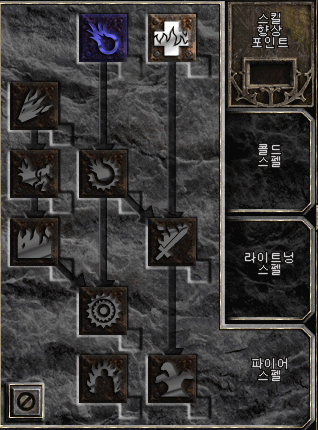
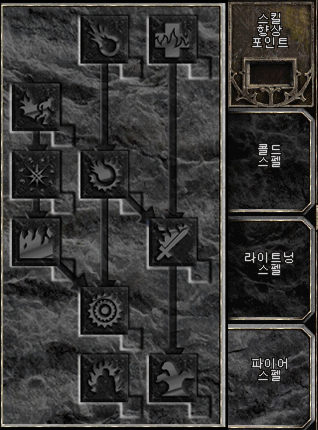
(작업중) 체인 라이트닝

diff --git a/Engin_Source/CPlayerScript.cpp b/Engin_Source/CPlayerScript.cpp
@@ -9,6 +9,7 @@
 #include "CMeteor.h"
 #include "CFireBolt.h"
 #include "CFrozenBolt.h"
+#include "CLightBolt.h"
 
 // Component
 #include "CSpriteRenderer.h"
@@ -302,6 +303,33 @@ void PlayerScript::FixedUpdate()
 
 			frozenbolt->Angle(mousePos);
 			frozenbolt->SetOwner(player);
+
+
+			SetPlayerDirection();
+			ResetAStar();
+			return;
+		}
+	}
+	else if (Input::GetInstance()->GetKeyDown(eKeyCode::E))
+	{
+		if (player->GetState() == Player::PlayerState::Idle
+			|| player->GetState() == Player::PlayerState::Move)
+		{
+			player->SetState(Player::PlayerState::Skil);
+
+			LightBolt* lightbolt = Object::Instantiate<LightBolt>(eLayerType::PlayerSKil, true);
+			Transform* lightboltTr = lightbolt->GetComponent<Transform>();
+			lightboltTr->SetPosition(pos);
+
+			Vector2 mousePos = Input::GetInstance()->GetMouseWorldPos(true);
+			Vector2 direction = mousePos - Vector2(pos.x, pos.y);
+
+			lightbolt->SetOwner(player);
+
+			// test
+			Layer& layer = SceneManager::GetInstance()->GetActiveScene()->GetLayer(eLayerType::Monster);
+			GameObject* obj = *(layer.GetGameObjects().begin());
+			lightbolt->LightingOn(obj);
 
 
 			SetPlayerDirection();

diff --git a/Engin_Source/CRenderer.cpp b/Engin_Source/CRenderer.cpp
@@ -534,6 +534,9 @@ namespace Renderer
 
 		constantBuffers[(UINT)eCBType::ObjectData] = new ConstantBuffer(eCBType::ObjectData);
 		constantBuffers[(UINT)eCBType::ObjectData]->Create(sizeof(ObjectDataCB));
+
+		constantBuffers[(UINT)eCBType::LightingData] = new ConstantBuffer(eCBType::LightingData);
+		constantBuffers[(UINT)eCBType::LightingData]->Create(sizeof(LightingBoltCB));
 #pragma endregion
 #pragma region STRUCTED BUFER
 		// Structed buffer
@@ -1134,7 +1137,7 @@ namespace Renderer
 			std::shared_ptr<Material> LightnBolttMaterial = std::make_shared<Material>();
 			LightnBolttMaterial->SetRenderingMode(eRenderingMode::Transparent);
 			LightnBolttMaterial->SetShader(LightnBolt);
-			ResourceManager::GetInstance()->Insert<Material>(L"LightnBoltMaterial", LightnBolttMaterial);
+			ResourceManager::GetInstance()->Insert<Material>(L"LightBoltMaterial", LightnBolttMaterial);
 		}
 #pragma endregion
 	}

diff --git a/Engin_Source/CLightBolt.h b/Engin_Source/CLightBolt.h
@@ -4,7 +4,33 @@
 class LightBolt : public BoltBase
 {
 public:
+	LightBolt();
+	~LightBolt();
 
+	virtual void Initalize() override;
+	virtual void Update() override;
+	virtual void FixedUpdate() override;
+	virtual void Render() override;
+
+	virtual void InitAnimation() override;
+
+	void SetCurObject(GameObject* object) { mCurObject = object; }
+	GameObject* GetCurObject() { return mCurObject; }
+
+	void SearchArriveTarget();
+	void LightingOn(GameObject* object);
+	void LinghtingRun();
+	void LightningEnd();
 private:
+	std::set<GameObject*> mAriiveList;
+	GameObject* mCurObject;
 
+	float mDriectionTime;
+	float mRadius;
+
+	int mBounceCount;
+	int mBounceMaxCount;
+
+	bool mDirection;
+	float mYScale;
 };

diff --git a/Engin_Source/CPlayerSelectButton.cpp b/Engin_Source/CPlayerSelectButton.cpp
@@ -45,8 +45,7 @@ void PlayerSelectButton::Initalize()
 	mCharterAnimation->Initalize();
 
 	Transform* tr = mCharterAnimation->GetComponent<Transform>();
-	tr->SetScale(Vector3(0.6f, 1.2f, 1.0f));
-	tr->SetSize(Vector3(250.f, 150.f, 1.0f));
+	tr->SetSize(Vector3(300.f, 200.f, 1.0f));
 	//tr->SetRotation(Vector3(30.f, 0.f, 0.f));
 	tr->SetParent(ButtonTr);
 	tr->SetPosition(Vector3(-0.8f * 100, -0.0f, 0.0f));

diff --git a/Engin_Source/CBoltBase.h b/Engin_Source/CBoltBase.h
@@ -11,6 +11,13 @@ public:
 
 	void SetDirection(float angle);
 	float Angle(Vector2 point);
+
+	bool GetRun() { return mbRun; }
+	void SetRun(bool run) { mbRun = run; }
+
+	float GetDamage() { return mDameage; }
+	void SetDamage(float damage) { mDameage = damage; }
+
 private:
 	int mSpeed;
 

diff --git a/Engin_Source/Graphics.h b/Engin_Source/Graphics.h
@@ -24,6 +24,7 @@
 #define CBSLOT_ITEMDATA			10
 #define CBSLOT_TILEDATA			11
 #define CBSLOT_OBEJECTDATA		12
+#define CBSLOT_LIGHTNING		13
 
 namespace graphics
 {
@@ -42,6 +43,7 @@ namespace graphics
 		ItemData,
 		TileData,
 		ObjectData,
+		LightingData,
 		End,
 	};
 

diff --git a/Engin_Source/CRenderer.h b/Engin_Source/CRenderer.h
@@ -141,6 +141,13 @@ namespace Renderer
 		float ObjectAlpha;
 	};
 
+	CBUFFER(LightingBoltCB, CBSLOT_LIGHTNING)
+	{
+		UINT BoltType;
+		bool Driection;
+		float vValue;
+	};
+
 	extern Vertex FadeInOut[4];
 	extern Vertex vertexes[4];
 	extern Vertex HalfAlpha[4];

diff --git a/Engin_Source/CFrozenBolt.cpp b/Engin_Source/CFrozenBolt.cpp
@@ -9,7 +9,7 @@
 FrozenBolt::FrozenBolt()
 	: BoltBase()
 {
-	SetElementType(eElementType::HitFire);
+	SetElementType(eElementType::HitFrozen);
 }
 
 FrozenBolt::~FrozenBolt()
